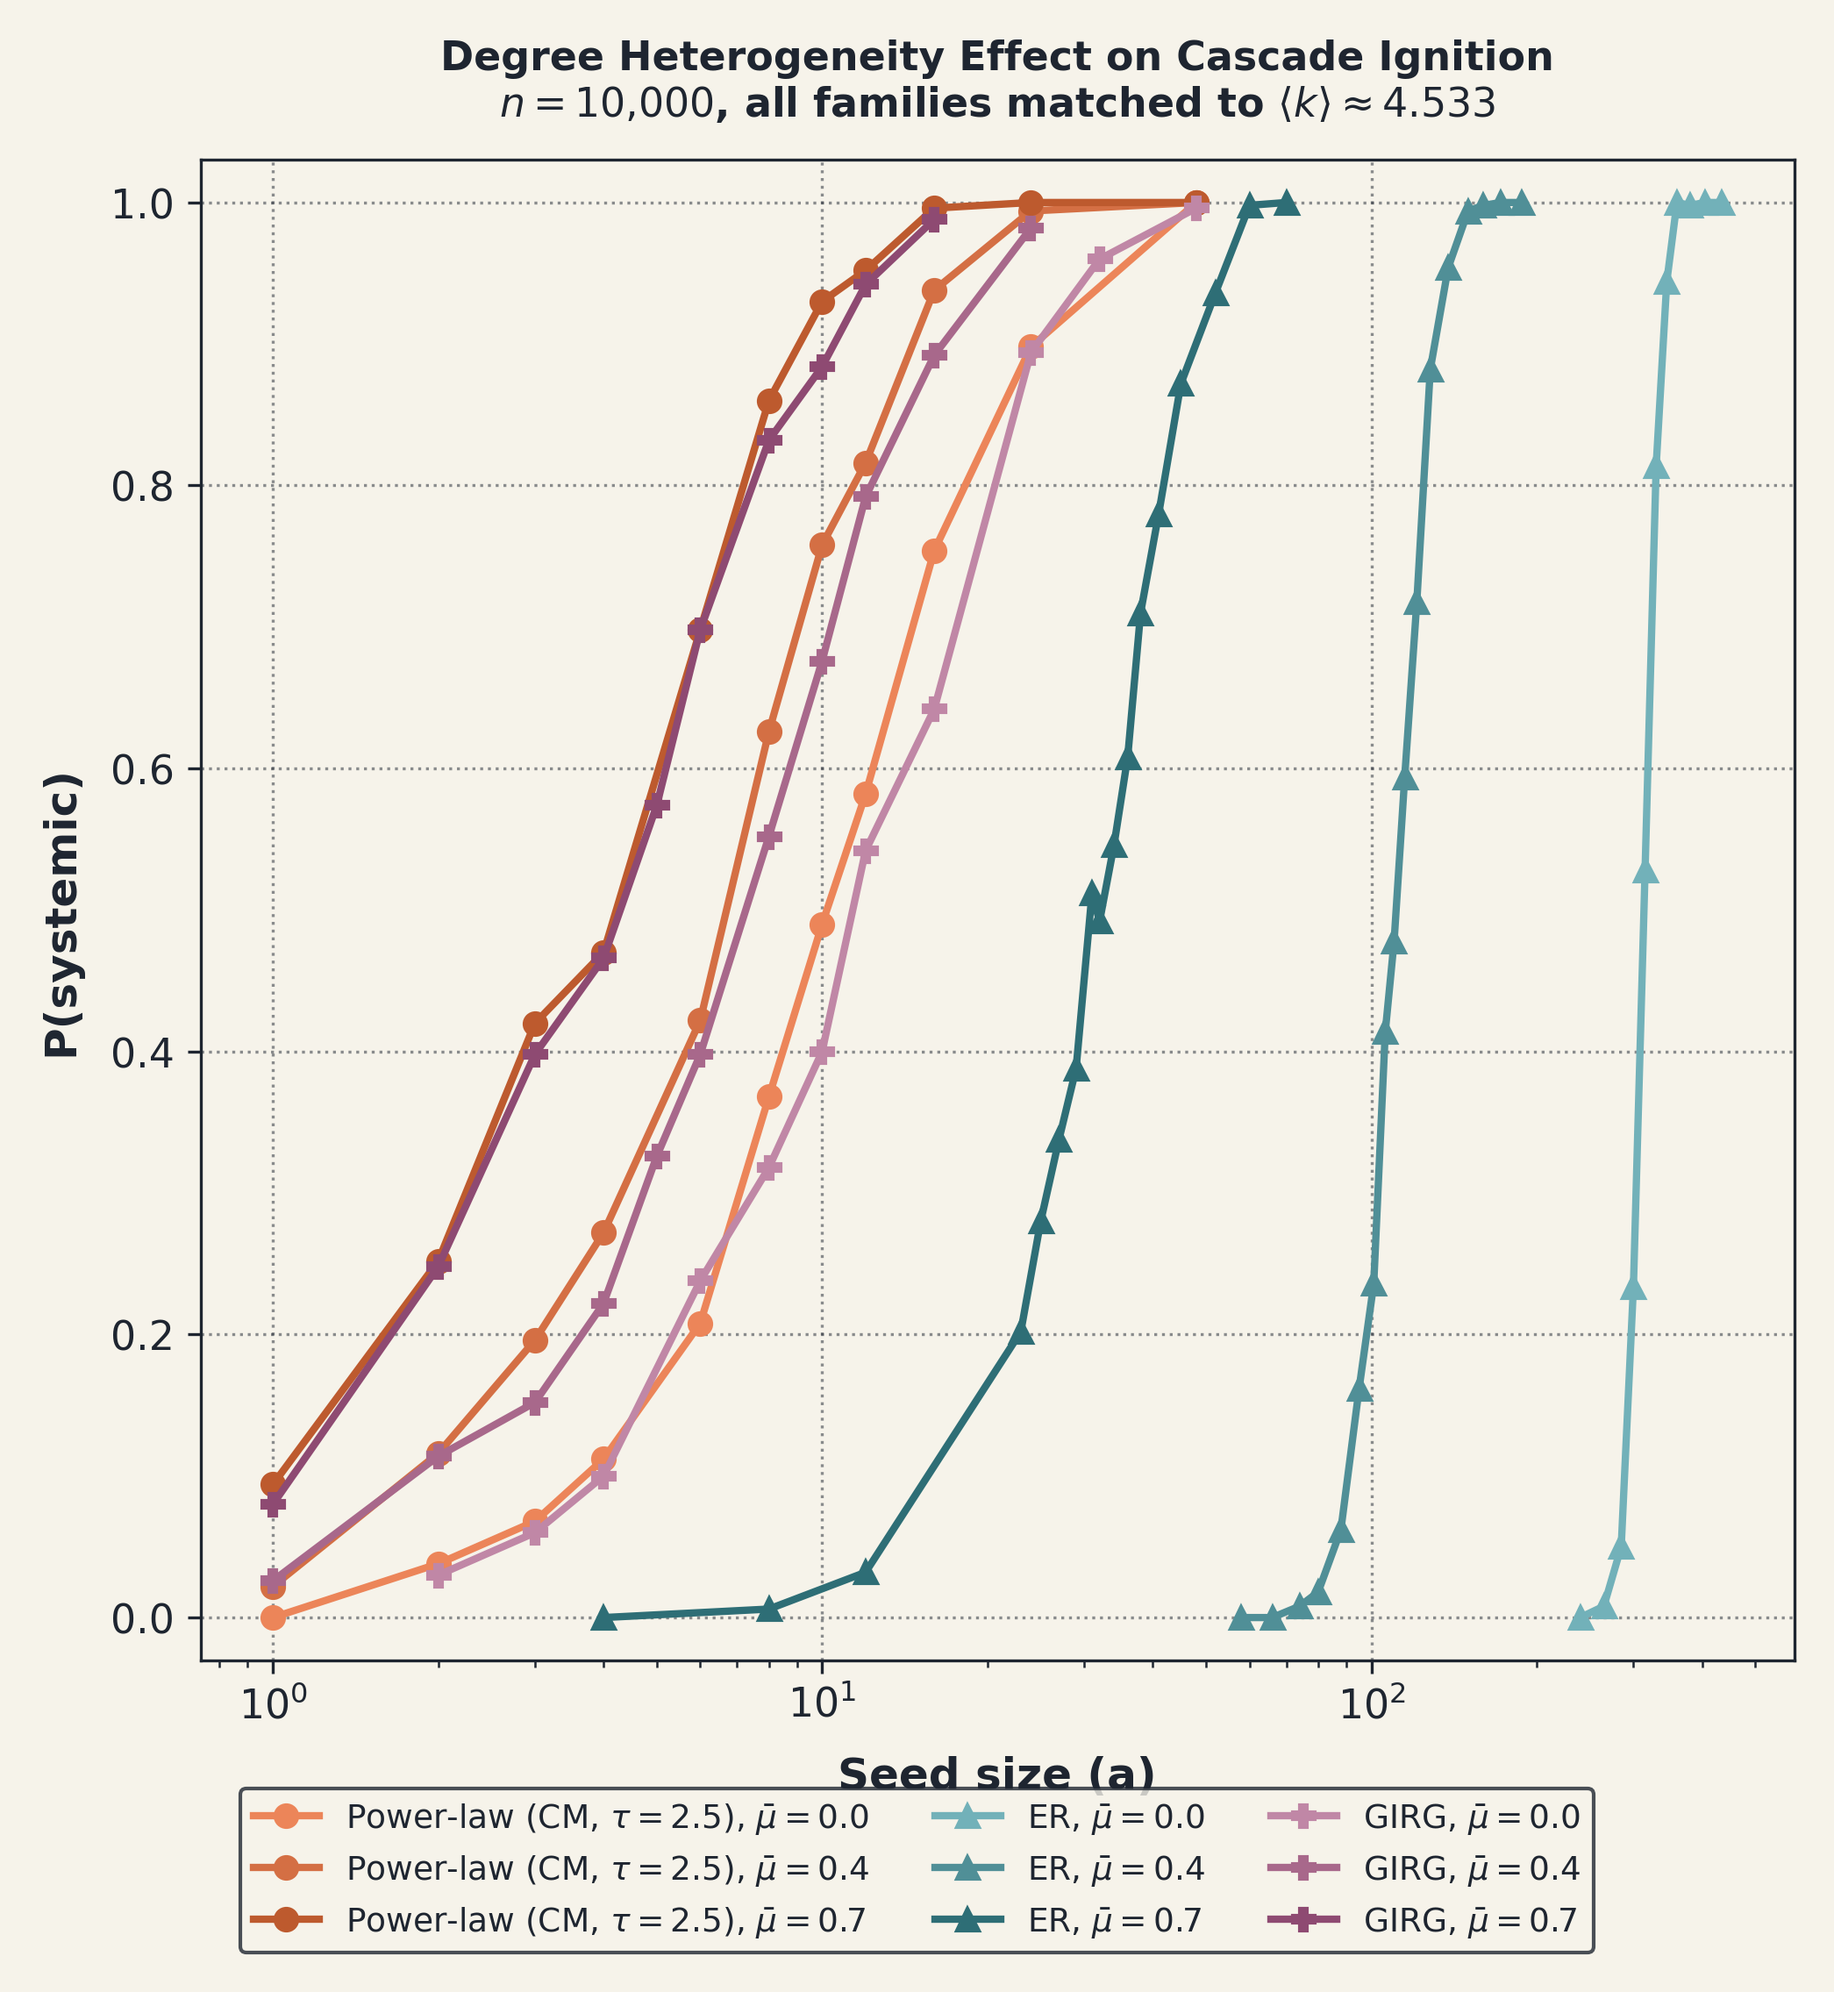
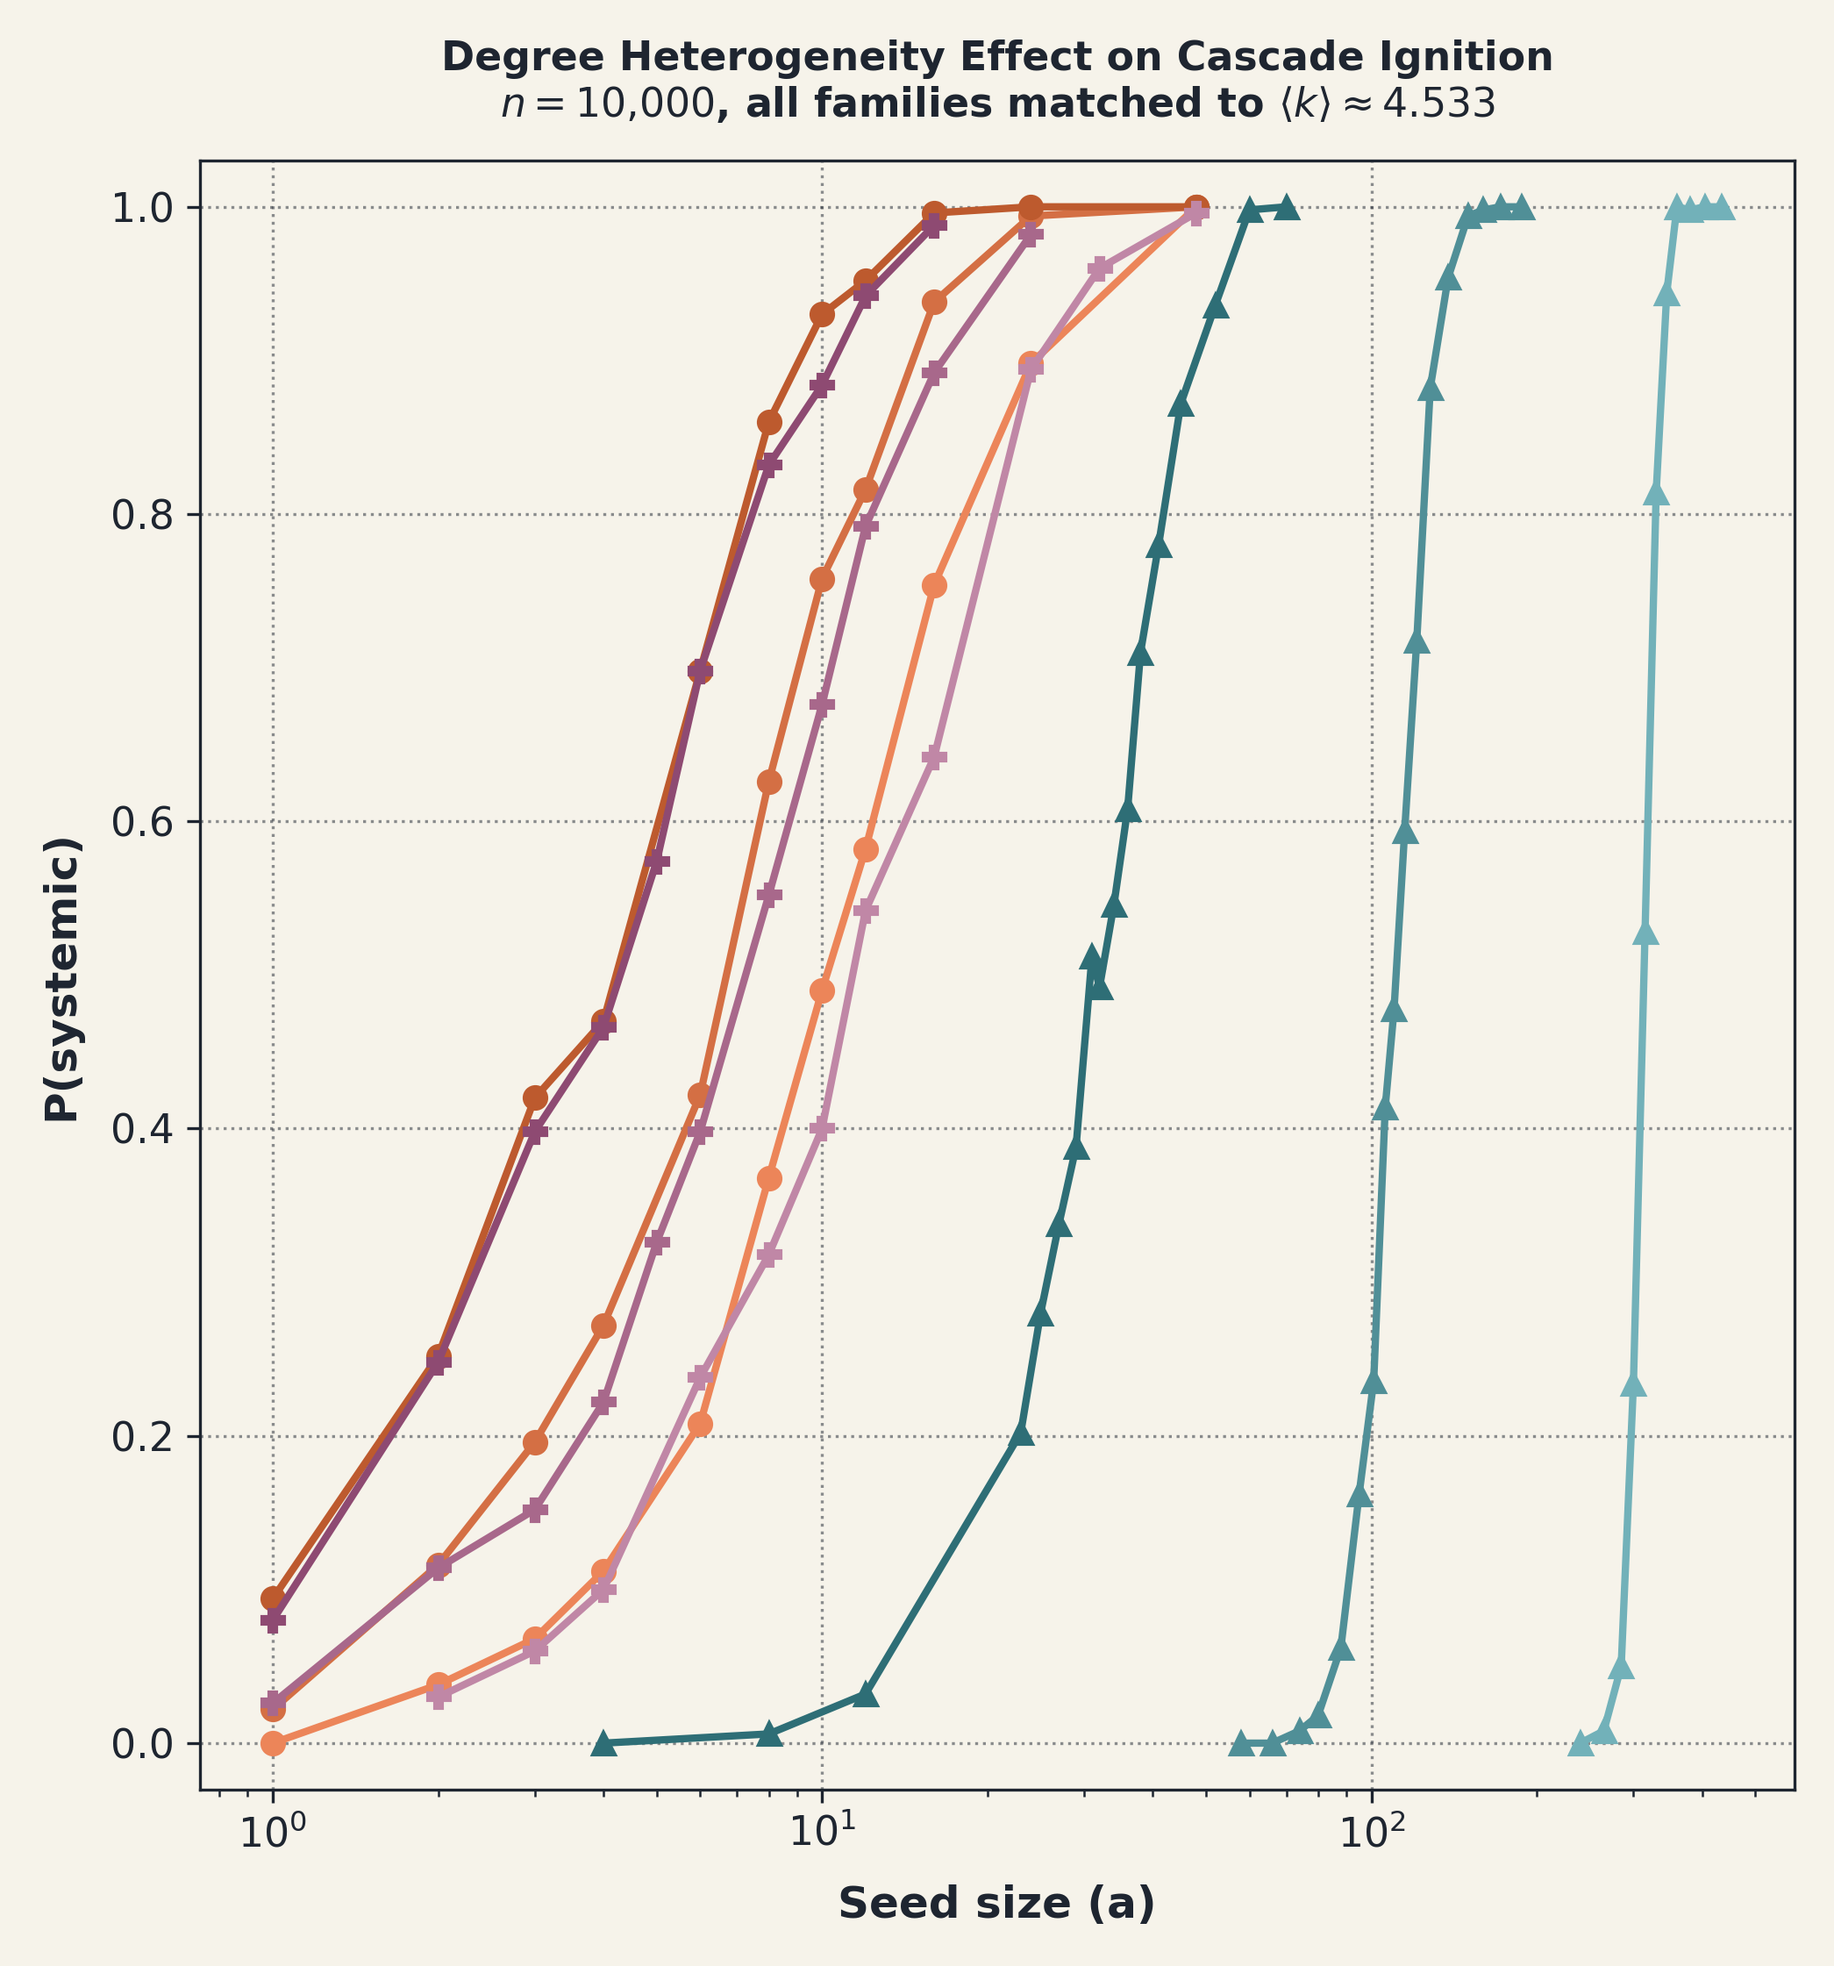
poster: separate hero legend, relocate QR block, add poster-demo Pages page
Gary's separate-legend branch work (S-063): plot_poster_comparison.py saves
the legend as its own poster_comparison_legend.png; poster.tex stacks the
hero at 0.52\textheight with the legend strip at 0.08 beneath; QR block
relocated to the bottom of the left column (img/qrcode); poster-demo/
landing page added and wired into the Pages deploy workflow (deploys on
next push, not before).

diff --git a/poster-demo/index.html b/poster-demo/index.html
@@ -1,0 +1,96 @@
+<!DOCTYPE html>
+<html lang="en">
+<head>
+    <meta charset="UTF-8">
+    <meta name="viewport" content="width=device-width, initial-scale=1.0">
+    <meta name="description" content="TwoCascade Interactive Graph Visualization Demo">
+    <title>TwoCascade Interactive Demo</title>
+    <link href="https://fonts.googleapis.com/css2?family=Inter:wght@400;600;800&display=swap" rel="stylesheet">
+    <style>
+        body {
+            margin: 0;
+            padding: 0;
+            background-color: #0d1117;
+            color: #c9d1d9;
+            font-family: 'Inter', sans-serif;
+            display: flex;
+            justify-content: center;
+            align-items: center;
+            height: 100vh;
+            overflow: hidden;
+        }
+        /* Dynamic ambient background */
+        .background {
+            position: absolute;
+            top: -50%;
+            left: -50%;
+            width: 200%;
+            height: 200%;
+            background: radial-gradient(circle at center, rgba(142, 74, 114, 0.15) 0%, rgba(13, 17, 23, 1) 50%);
+            animation: pulse 15s ease-in-out infinite alternate;
+            z-index: 0;
+        }
+        @keyframes pulse {
+            0% { transform: scale(1); opacity: 0.8; }
+            100% { transform: scale(1.1); opacity: 1; }
+        }
+        .container {
+            text-align: center;
+            padding: 4rem;
+            background: rgba(255, 255, 255, 0.03);
+            border-radius: 24px;
+            box-shadow: 0 8px 32px rgba(0, 0, 0, 0.3);
+            backdrop-filter: blur(12px);
+            -webkit-backdrop-filter: blur(12px);
+            border: 1px solid rgba(255, 255, 255, 0.08);
+            z-index: 1;
+            transition: transform 0.3s ease, box-shadow 0.3s ease;
+        }
+        .container:hover {
+            transform: translateY(-5px);
+            box-shadow: 0 12px 40px rgba(142, 74, 114, 0.2);
+        }
+        h1 {
+            font-size: 3.5rem;
+            font-weight: 800;
+            margin-bottom: 1rem;
+            background: -webkit-linear-gradient(45deg, #8E4A72, #BD5A2E);
+            -webkit-background-clip: text;
+            -webkit-text-fill-color: transparent;
+            letter-spacing: -1px;
+        }
+        p {
+            font-size: 1.25rem;
+            color: #8b949e;
+            font-weight: 400;
+            margin-top: 0;
+            animation: fadeIn 2s ease-in;
+        }
+        @keyframes fadeIn {
+            0% { opacity: 0; transform: translateY(10px); }
+            100% { opacity: 1; transform: translateY(0); }
+        }
+        .loader {
+            margin-top: 2rem;
+            display: inline-block;
+            width: 40px;
+            height: 40px;
+            border: 3px solid rgba(255,255,255,0.1);
+            border-radius: 50%;
+            border-top-color: #2E6E76;
+            animation: spin 1s ease-in-out infinite;
+        }
+        @keyframes spin {
+            to { transform: rotate(360deg); }
+        }
+    </style>
+</head>
+<body>
+    <div class="background"></div>
+    <div class="container">
+        <h1>TwoCascade</h1>
+        <p>Interactive graph visualizations coming soon.</p>
+        <div class="loader"></div>
+    </div>
+</body>
+</html>

diff --git a/scripts/plot_poster_comparison.py b/scripts/plot_poster_comparison.py
@@ -116,13 +116,7 @@ def main() -> None:
     # already ordered CM x3, ER x3, GIRG x3) yields one column per family,
     # mu_bar increasing down each column -- a 3x3 grid grouped by family.
     handles, labels = ax.get_legend_handles_labels()
-    plt.tight_layout(rect=[0, 0.065, 1, 1])
-    fig.legend(
-        handles, labels,
-        loc="lower center", bbox_to_anchor=(0.5, 0.0),
-        ncol=3, frameon=True, facecolor=BG_COLOR, edgecolor=TEXT_COLOR,
-        fontsize=9,
-    )
+    plt.tight_layout()
     # bbox_inches="tight" (2026-08-03 clipping fix): the title and the
     # below-axes legend both extend past the drawn axes box. Without this,
     # savefig crops to the figure's nominal canvas and silently cuts off
@@ -134,8 +128,26 @@ def main() -> None:
         bbox_inches="tight", pad_inches=0.15,
         metadata={"Creation Time": None, "Software": None},
     )
+
+    # Create a separate figure for the legend
+    fig_leg = plt.figure(figsize=(7.0, 1.5), dpi=300)
+    fig_leg.set_facecolor(BG_COLOR)
+    fig_leg.legend(
+        handles, labels,
+        loc="center",
+        ncol=3, frameon=True, facecolor=BG_COLOR, edgecolor=TEXT_COLOR,
+        fontsize=9,
+    )
+    out_leg_png = os.path.join(fig_dir, "poster_comparison_legend.png")
+    fig_leg.savefig(
+        out_leg_png, dpi=300, facecolor=BG_COLOR,
+        bbox_inches="tight", pad_inches=0.15,
+        metadata={"Creation Time": None, "Software": None},
+    )
+
     plt.close(fig)
-    print(f"Plot saved to {out_png}")
+    plt.close(fig_leg)
+    print(f"Plot saved to {out_png} and legend saved to {out_leg_png}")
 
 
 if __name__ == "__main__":

diff --git a/okf/poster/poster.tex b/okf/poster/poster.tex
@@ -91,7 +91,9 @@
 %% ⚠ PNG is matplotlib default DPI — fine on screen, regenerate at dpi >= 300
 %% before print (poster-queue item 5 polish).
 \begin{center}
-\includegraphics[width=0.95\linewidth, height=0.6\textheight, keepaspectratio]{img/poster_comparison}%
+\includegraphics[width=0.95\linewidth, height=0.52\textheight, keepaspectratio]{img/poster_comparison}\\
+\vspace{1em}
+\includegraphics[width=0.95\linewidth, height=0.08\textheight, keepaspectratio]{img/poster_comparison_legend}%
 \end{center}
 \vfill
 }{
